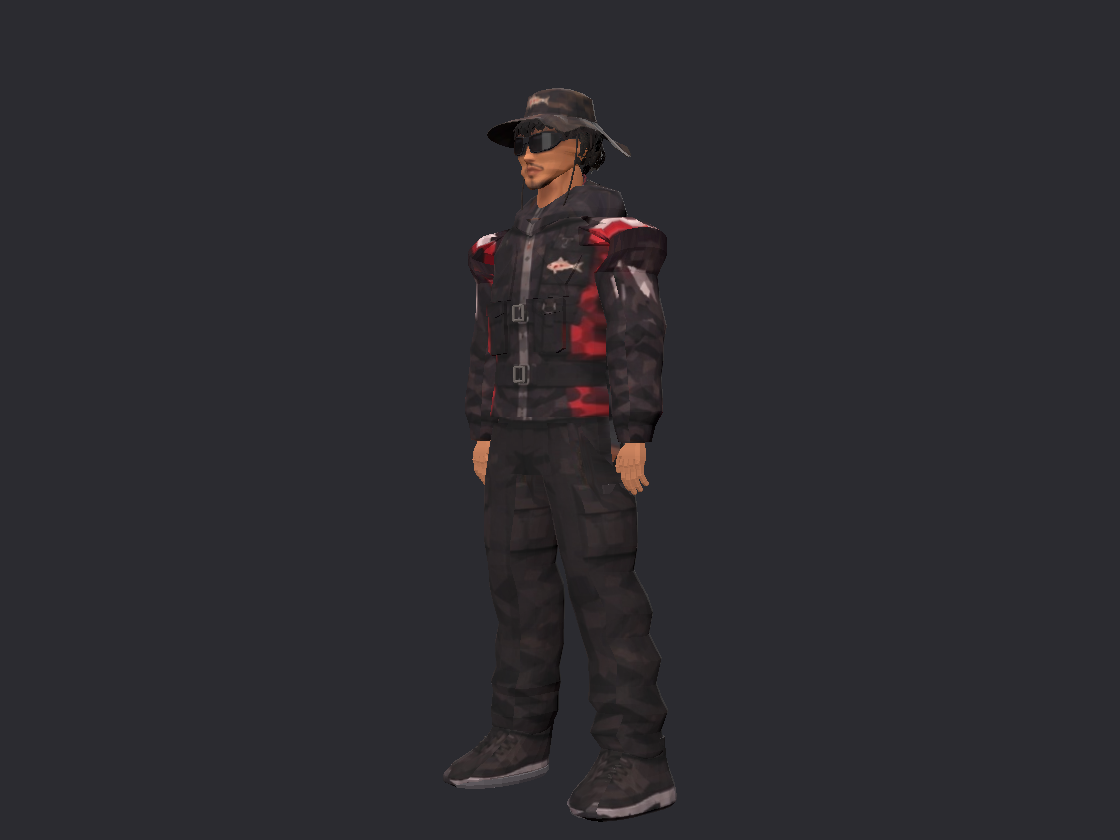
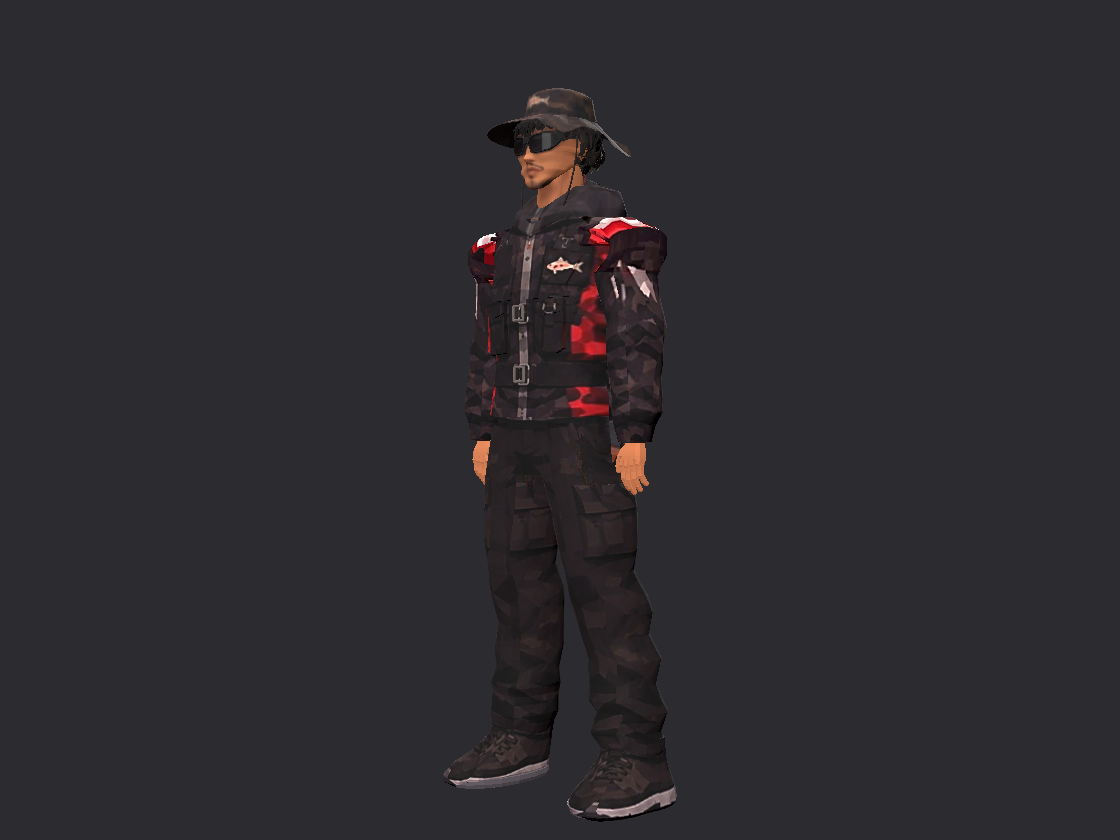
Ajusta contraste e nitidez do camuflado e dos ombros
Gera pescador_v29_Roupa_ajustada.png e aplica em tempo de execucao nos
materiais Pescador e ShoulderCloth, sem alterar o GLB. Atualiza renders e
o VALIDACAO_REFERENCIA.md.

Claude-Session: https://claude.ai/code/session_01SbPjzQDrXqmreyexuEKpnZ

diff --git a/VALIDACAO_REFERENCIA.md b/VALIDACAO_REFERENCIA.md
@@ -88,3 +88,11 @@ Nenhuma alteração de malha, osso ou textura foi feita nesta etapa. Este commit
 - `hair_curls_albedo.png`: a parte superior da textura agora tem cachos pequenos e de baixo contraste. Antes era uma cor lisa.
 - Renders: a coroa aparece texturizada sob a aba do chapéu, e a nuca mantém a massa cacheada. A frente do rosto continua limpa.
 - Ainda diferente da referência: o cabelo é mais uniforme que a folha de referência, e a comparação de cor segue visual.
+
+## Camuflagem e ombros (etapa 6)
+
+- A textura `Roupa` embutida no GLB é idêntica ao `pescador_v29_Roupa.jpg` solto. Por isso a correção não altera o GLB: o `pescador_scene.gd` aplica em tempo de execução a versão `pescador_v29_Roupa_ajustada.png`.
+- Ajuste da versão: contraste ×1,18, saturação ×1,08 e nitidez (unsharp mask). Uma primeira tentativa com saturação ×1,3 deixou o rosto alaranjado e foi descartada.
+- Aplicada no material `Pescador` (corpo) e no `ShoulderCloth` (ombros, pelo shader).
+- Renders: o padrão vermelho e branco dos ombros ficou mais nítido, e o camuflado ganhou contraste. O corpo continua escuro, como na referência.
+- Ainda não verificado: os óculos (material `Lentes fumê`) e a sola branca do tênis. Ficaram para a próxima etapa.
